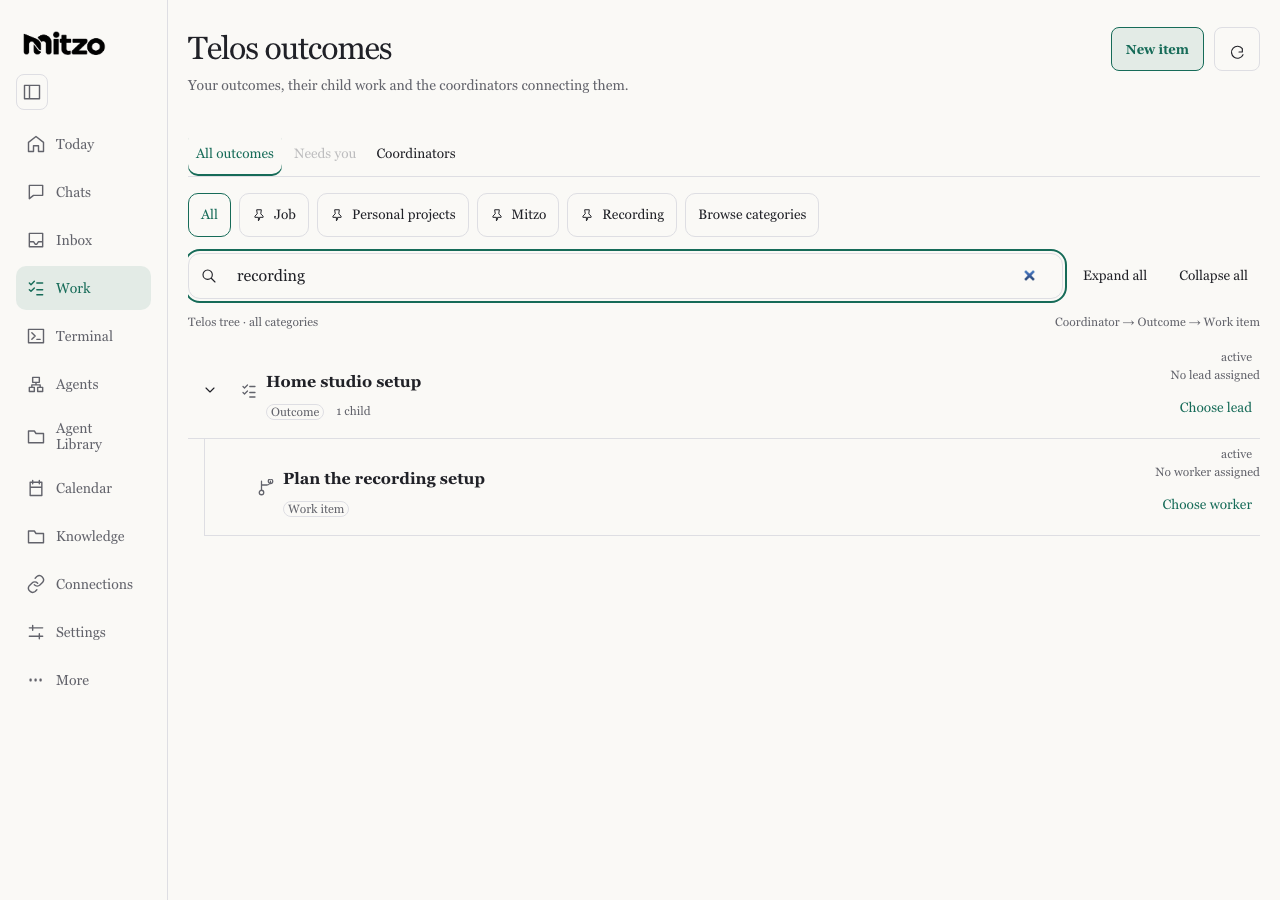
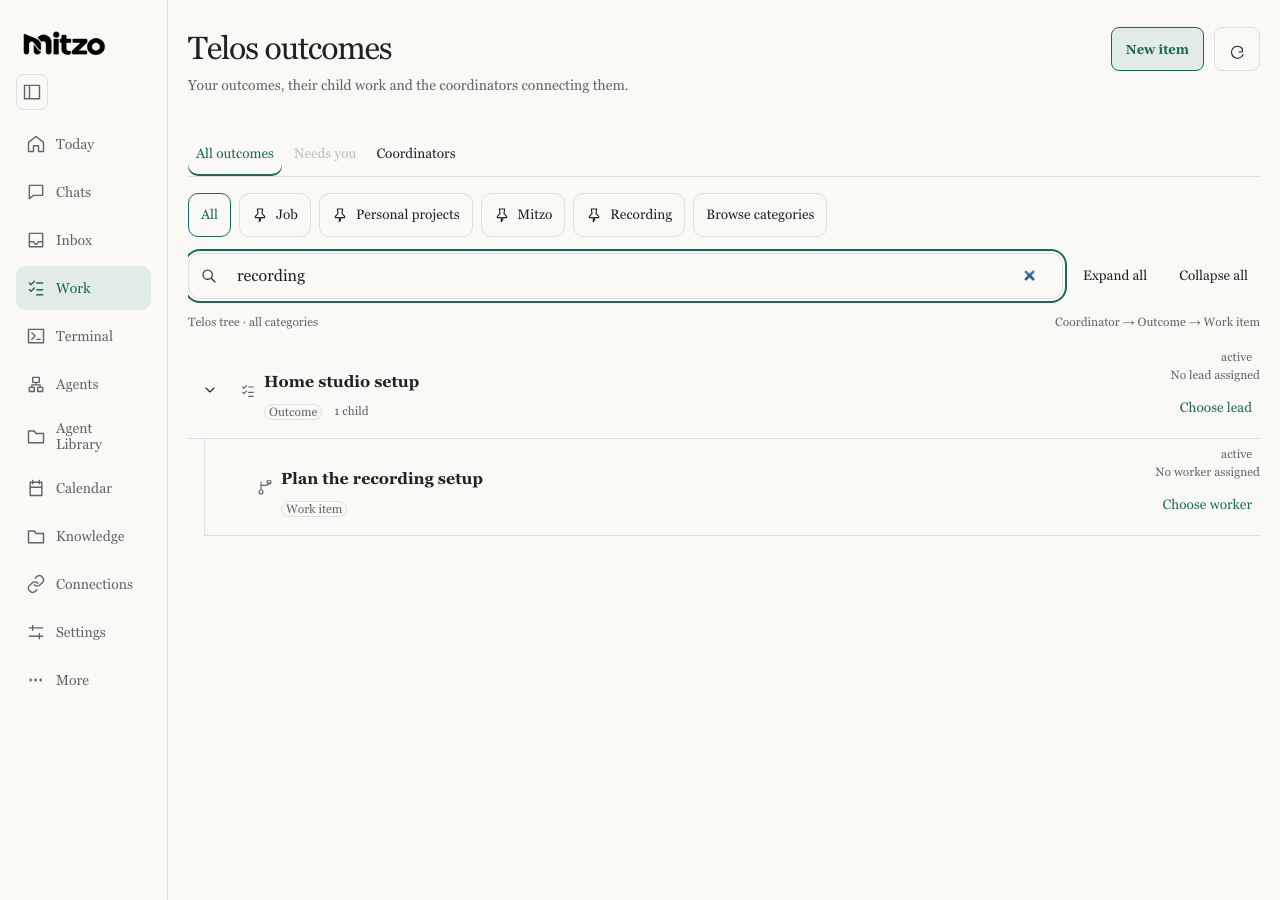
fix(telos): honor shared control types and disclosure focus contracts

Changed region(s): [[0.1875, 0.2178, 0.6562, 0.2489], [0.2188, 0.5289, 0.375, 0.5911], [0.1875, 0.4044, 0.3438, 0.4667]]

diff --git a/frontend/src/components/TelosOutcomesTree.tsx b/frontend/src/components/TelosOutcomesTree.tsx
@@ -1,6 +1,7 @@
-import { useMemo, useState } from 'react';
+import { useMemo, useState, useRef } from 'react';
 import type { TelosWorkItem } from '@mitzo/protocol';
 import { UiIcon } from './UiIcon';
+import { MotionPresence } from './MotionPresence';
 import { TelosTreeConversationEntry } from './TelosTreeConversationEntry';
 import { telosKindLabel } from '../lib/telos-kind-label';
 import './TelosWorkspace.css';
@@ -58,6 +59,11 @@ export function TelosOutcomesTree({
 }) {
   const [state, setState] = useState(() => restore(storageKey));
   const [browse, setBrowse] = useState(false);
+  const browseTrigger = useRef<HTMLButtonElement>(null);
+  function closeBrowse() {
+    setBrowse(false);
+    browseTrigger.current?.focus();
+  }
   const [storageError, setStorageError] = useState(false);
   function update(patch: Partial<NavigationState>) {
     const next = { ...state, ...patch };
@@ -133,7 +139,7 @@ export function TelosOutcomesTree({
                             ? 'worktree'
                             : 'work'
                       }
-                      size={18}
+                      size={16}
                     />
                   </span>
                   <div className="telos-node-copy">
@@ -157,9 +163,11 @@ export function TelosOutcomesTree({
                     />
                   </div>
                 </div>
-                {kids.length > 0 &&
-                  expanded &&
-                  tree(record.itemId, new Set(visited).add(record.itemId))}
+                {kids.length > 0 && (
+                  <MotionPresence open={expanded} kind="disclosure">
+                    {tree(record.itemId, new Set(visited).add(record.itemId))}
+                  </MotionPresence>
+                )}
               </li>
             );
           })}
@@ -200,43 +208,52 @@ export function TelosOutcomesTree({
                 aria-pressed={state.category === category}
                 onClick={() => update({ category })}
               >
-                <UiIcon name="pin" size={14} />
+                <UiIcon name="pin" size={16} />
                 {category}
               </button>
             ))}
-            <button aria-expanded={browse} onClick={() => setBrowse(!browse)}>
+            <button ref={browseTrigger} aria-expanded={browse} onClick={() => setBrowse(!browse)}>
               Browse categories
             </button>
           </div>
-          {browse && (
-            <div className="telos-category-browser" aria-label="Discover categories">
-              {categories.length === 0 && <p>No categories available.</p>}
-              {[...new Set([...categories, ...state.pins])].map((category) => (
-                <div key={category}>
-                  <button
-                    onClick={() => {
-                      update({ category });
-                      setBrowse(false);
-                    }}
-                  >
-                    {category}
-                  </button>
-                  <button
-                    aria-label={`${state.pins.includes(category) ? 'Unpin' : 'Pin'} ${category}`}
-                    onClick={() =>
-                      update({
-                        pins: state.pins.includes(category)
-                          ? state.pins.filter((p) => p !== category)
-                          : [...state.pins, category],
-                      })
-                    }
-                  >
-                    {state.pins.includes(category) ? 'Unpin' : 'Pin'}
-                  </button>
-                </div>
-              ))}
-            </div>
-          )}
+          <MotionPresence
+            open={browse}
+            kind="disclosure"
+            className="telos-category-browser"
+            aria-label="Discover categories"
+            onKeyDown={(event) => {
+              if (event.key === 'Escape') {
+                event.stopPropagation();
+                closeBrowse();
+              }
+            }}
+          >
+            {categories.length === 0 && <p>No categories available.</p>}
+            {[...new Set([...categories, ...state.pins])].map((category) => (
+              <div key={category}>
+                <button
+                  onClick={() => {
+                    update({ category });
+                    closeBrowse();
+                  }}
+                >
+                  {category}
+                </button>
+                <button
+                  aria-label={`${state.pins.includes(category) ? 'Unpin' : 'Pin'} ${category}`}
+                  onClick={() =>
+                    update({
+                      pins: state.pins.includes(category)
+                        ? state.pins.filter((p) => p !== category)
+                        : [...state.pins, category],
+                    })
+                  }
+                >
+                  {state.pins.includes(category) ? 'Unpin' : 'Pin'}
+                </button>
+              </div>
+            ))}
+          </MotionPresence>
         </>
       )}
       <div className="telos-tree-toolbar">

diff --git a/frontend/src/components/__tests__/TelosItemWorkspace.test.tsx b/frontend/src/components/__tests__/TelosItemWorkspace.test.tsx
@@ -25,10 +25,10 @@ it('retains the brief, original fields, exact dates, context and parent-only Wor
     </MemoryRouter>,
   );
   expect(screen.getByText(records[0].rationale)).toBeTruthy();
-  expect(screen.getByRole('button', { name: 'Work', exact: true })).toBeTruthy();
+  expect(screen.getByRole('button', { name: 'Work' })).toBeTruthy();
   expect(screen.getByText('Created')).toBeTruthy();
-  fireEvent.click(screen.getByRole('button', { name: 'Work', exact: true }));
-  fireEvent.click(screen.getByRole('button', { name: records[1].summary, exact: true }));
+  fireEvent.click(screen.getByRole('button', { name: 'Work' }));
+  fireEvent.click(screen.getByRole('button', { name: records[1].summary }));
   expect(onOpen).toHaveBeenCalledWith(records[1].itemId);
 });
 it('separates materials, source references and external links with unknown dates kept unknown', () => {
@@ -58,11 +58,11 @@ it('separates materials, source references and external links with unknown dates
       <TelosItemWorkspace record={record} records={[record]} onOpen={vi.fn()} onBack={vi.fn()} />
     </MemoryRouter>,
   );
-  expect(screen.queryByRole('button', { name: 'Work', exact: true })).toBeNull();
+  expect(screen.queryByRole('button', { name: 'Work' })).toBeNull();
   expect(screen.getAllByText('Unknown').length).toBeGreaterThan(0);
-  fireEvent.click(screen.getByRole('button', { name: 'Materials', exact: true }));
+  fireEvent.click(screen.getByRole('button', { name: 'Materials' }));
   expect(screen.getByText('Retained output revisions')).toBeTruthy();
-  expect(screen.getByRole('heading', { name: 'Links', exact: true })).toBeTruthy();
+  expect(screen.getByRole('heading', { name: 'Links' })).toBeTruthy();
   expect(screen.getByRole('link', { name: /External reference/ }).getAttribute('href')).toBe(
     'https://example.com',
   );
@@ -75,7 +75,7 @@ it('does not turn legacy session hints into assignments and preserves selected t
       <TelosItemWorkspace record={record} records={records} onOpen={vi.fn()} onBack={vi.fn()} />
     </MemoryRouter>,
   );
-  fireEvent.click(screen.getByRole('button', { name: 'Chat', exact: true }));
+  fireEvent.click(screen.getByRole('button', { name: 'Chat' }));
   expect(screen.getByText('Ordinary role entry')).toBeTruthy();
   view.unmount();
   render(
@@ -83,9 +83,7 @@ it('does not turn legacy session hints into assignments and preserves selected t
       <TelosItemWorkspace record={record} records={records} onOpen={vi.fn()} onBack={vi.fn()} />
     </MemoryRouter>,
   );
-  expect(
-    screen.getByRole('button', { name: 'Chat', exact: true }).getAttribute('aria-pressed'),
-  ).toBe('true');
+  expect(screen.getByRole('button', { name: 'Chat' }).getAttribute('aria-pressed')).toBe('true');
 });
 
 it('does not claim empty child work when the collection boundary is loading or unavailable', () => {
@@ -134,6 +132,6 @@ it('offers an explicit retry for unavailable child work', () => {
       />
     </MemoryRouter>,
   );
-  fireEvent.click(screen.getByRole('button', { name: 'Try again', exact: true }));
+  fireEvent.click(screen.getByRole('button', { name: 'Try again' }));
   expect(refresh).toHaveBeenCalledOnce();
 });

diff --git a/frontend/src/components/__tests__/TelosOutcomesTree.test.tsx b/frontend/src/components/__tests__/TelosOutcomesTree.test.tsx
@@ -25,11 +25,11 @@ it('starts with All outcomes, discovers and persists pins, and searches nested c
   fireEvent.click(screen.getByRole('button', { name: 'Pin Research' }));
   view.unmount();
   render(<TelosOutcomesTree records={items} onOpen={onOpen} />);
-  expect(screen.getByRole('button', { name: 'Research', exact: true })).toBeTruthy();
+  expect(screen.getByRole('button', { name: 'Research' })).toBeTruthy();
   fireEvent.click(screen.getByRole('button', { name: 'Expand all' }));
   const target = items.find((item) => item.parentId !== null)!;
   fireEvent.change(screen.getByRole('searchbox'), { target: { value: target.intent } });
-  fireEvent.click(screen.getByRole('button', { name: target.summary, exact: true }));
+  fireEvent.click(screen.getByRole('button', { name: target.summary }));
   expect(onOpen).toHaveBeenCalledWith(target.itemId);
   expect(screen.getAllByText('Coordinator').length).toBeGreaterThan(0);
 });
@@ -61,4 +61,14 @@ it('keeps All outcomes first in loading, empty and unavailable states', () => {
   expect(screen.queryByText('No outcomes yet.')).toBeNull();
   view.rerender(<TelosOutcomesTree records={[]} onOpen={vi.fn()} />);
   expect(screen.getByText('No outcomes yet.')).toBeTruthy();
+});
+
+it('closes category discovery with Escape and restores its trigger focus', () => {
+  render(<TelosOutcomesTree records={records} onOpen={vi.fn()} />);
+  const trigger = screen.getByRole('button', { name: 'Browse categories' });
+  fireEvent.click(trigger);
+  const discovery = screen.getByLabelText('Discover categories');
+  fireEvent.keyDown(discovery, { key: 'Escape' });
+  expect(document.activeElement).toBe(trigger);
+  expect(trigger.getAttribute('aria-expanded')).toBe('false');
 });

diff --git a/frontend/src/pages/__tests__/TelosWorkspace.routes.test.tsx b/frontend/src/pages/__tests__/TelosWorkspace.routes.test.tsx
@@ -83,17 +83,15 @@ it('opens actual record workspace from All outcomes, navigates child and returns
       </Routes>
     </MemoryRouter>,
   );
-  await screen.findByRole('button', { name: 'All outcomes', exact: true });
-  expect(screen.getByRole('button', { name: 'New item', exact: true })).toBeTruthy();
+  await screen.findByRole('button', { name: 'All outcomes' });
+  expect(screen.getByRole('button', { name: 'New item' })).toBeTruthy();
   const list = document.body;
   fireEvent.change(within(list).getByRole('searchbox'), { target: { value: 'recording' } });
-  fireEvent.click(
-    within(list).getByRole('button', { name: 'Plan the recording setup', exact: true }),
-  );
+  fireEvent.click(within(list).getByRole('button', { name: 'Plan the recording setup' }));
   const detail = document.body;
   await within(detail).findByRole('heading', { name: 'Plan the recording setup' });
-  expect(within(detail).queryByRole('button', { name: 'Work', exact: true })).toBeNull();
-  fireEvent.click(within(detail).getByRole('button', { name: 'Back', exact: true }));
+  expect(within(detail).queryByRole('button', { name: 'Work' })).toBeNull();
+  fireEvent.click(within(detail).getByRole('button', { name: 'Back' }));
   await waitFor(() =>
     expect((within(list).getByRole('searchbox') as HTMLInputElement).value).toBe('recording'),
   );

diff --git a/frontend/src/components/__tests__/TelosTreeConversationEntry.test.tsx b/frontend/src/components/__tests__/TelosTreeConversationEntry.test.tsx
@@ -24,7 +24,7 @@ it('opens the workspace Chat entry for an authoritative current lead without all
   vi.spyOn(TelosWorkApiClient.prototype, 'read').mockResolvedValue(view);
   const open = vi.fn();
   render(<TelosTreeConversationEntry itemId={item.itemId} onOpenChat={open} />);
-  fireEvent.click(await screen.findByRole('button', { name: 'Lead chat', exact: true }));
+  fireEvent.click(await screen.findByRole('button', { name: 'Lead chat' }));
   expect(open).toHaveBeenCalledOnce();
 });
 it('does not turn an originating conversation into a lead assignment', async () => {
@@ -35,7 +35,7 @@ it('does not turn an originating conversation into a lead assignment', async () 
   });
   render(<TelosTreeConversationEntry itemId={item.itemId} onOpenChat={vi.fn()} />);
   expect(await screen.findByText('No lead assigned')).toBeTruthy();
-  expect(screen.getByRole('button', { name: 'Choose lead', exact: true })).toBeTruthy();
+  expect(screen.getByRole('button', { name: 'Choose lead' })).toBeTruthy();
 });
 it('keeps failed relationship reads distinct from no assignment', async () => {
   vi.spyOn(TelosWorkApiClient.prototype, 'read').mockRejectedValue(Error('unavailable'));

diff --git a/server/connections/reviewed-handler-artifacts.ts b/server/connections/reviewed-handler-artifacts.ts
@@ -33,7 +33,7 @@ export const reviewedHandlerSourceArtifacts = Object.freeze({
   '../../frontend/src/components/TelosItemWorkspace.tsx':
[1 lines of base64/hex data omitted]
   '../../frontend/src/components/TelosOutcomesTree.tsx':
[2 lines of base64/hex data omitted]
   '../../frontend/src/pages/TodoWorkspace.tsx':
[1 lines of base64/hex data omitted]
   '../../frontend/src/pages/TodoView.tsx':

diff --git a/frontend/src/pages/__tests__/TodoView.test.tsx b/frontend/src/pages/__tests__/TodoView.test.tsx
@@ -405,7 +405,7 @@ describe('TodoView', () => {
       </MemoryRouter>,
     );
 
-    fireEvent.click(screen.getByRole('button', { name: 'New item', exact: true }));
+    fireEvent.click(screen.getByRole('button', { name: 'New item' }));
     fireEvent.change(screen.getByPlaceholderText('Short outcome title'), {
       target: { value: 'Ship durable outcomes' },
     });

diff --git a/docs/design/ui-design-system.md b/docs/design/ui-design-system.md
@@ -1490,7 +1490,7 @@ time and source identity; unavailable author/date facts remain explicit.
 The brief's 20rem column is structural reading geometry. Search wraps before the
 actions at phone widths and uses five shared control heights as its preferred
 basis. Output actions move below the copy so full hashes cannot squeeze titles.
-Native disclosures require no extra animation lifecycle. No palette, typography,
+Category discovery and recursive branches use shared `MotionPresence` disclosures; Escape restores the category trigger focus. Native output disclosures require no extra animation lifecycle. No palette, typography,
 shared settings reference or frozen approval changed.
 
 Inspected all-intercept captures: [phone tree](assets/telos-s7-tree-mobile-dark.png),
